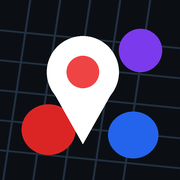
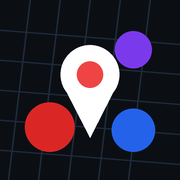
Interface maior e encaixe correto quando instalado como app
- Tudo em rem, maior por padrão, com ajuste "Tamanho do texto" (Normal/Grande/Extra)
- Barra de busca, botões e painel maiores; rótulos não cobrem o marcador
- iPhone: barra de status sólida, altura real da tela, corrige deslocamento após o teclado
- Ícones centralizados (+ ícone maskable para Android)

Claude-Session: https://claude.ai/code/session_01Km69xGFTynifKWpQ2X4WEs

Changed region(s): [[0.0, 0.0556, 1.0, 1.0]]

diff --git a/app.css b/app.css
@@ -1,130 +1,139 @@
+/* Tamanhos em rem: o ajuste "Tamanho do texto" muda o font-size do <html> e tudo cresce junto. */
 :root{
-  --bg:#0b0f14;--panel:#121a23;--panel2:#1a2430;--line:#253244;--tx:#e8eef4;--mu:#8fa0b1;--acc:#38bdf8;
+  --bg:#0b0f14;--panel:#121a23;--panel2:#1a2430;--line:#253244;--tx:#e8eef4;--mu:#9aabbc;--acc:#38bdf8;
   --s-IN:#ef4444;--s-MP:#f97316;--s-NE:#94a3b8;--s-PX:#eab308;--s-FO:#22c55e;--s-IM:#64748b;
-  --st:env(safe-area-inset-top,0px);--sb:env(safe-area-inset-bottom,0px);
+  --st:env(safe-area-inset-top,0px);--sb:env(safe-area-inset-bottom,0px);--sl:env(safe-area-inset-left,0px);--sr:env(safe-area-inset-right,0px);
+  --vh:1vh;
 }
+html{font-size:17px;-webkit-text-size-adjust:100%;text-size-adjust:100%}
+html.t2{font-size:19px}
+html.t3{font-size:21px}
 *{box-sizing:border-box;-webkit-tap-highlight-color:transparent}
-html,body{margin:0;height:100%;overflow:hidden;background:var(--bg);color:var(--tx);
-  font:15px/1.4 -apple-system,BlinkMacSystemFont,"Segoe UI",Roboto,Helvetica,Arial,sans-serif}
+html,body{margin:0;width:100%;height:100%;overflow:hidden;overscroll-behavior:none}
+body{position:fixed;inset:0;background:var(--bg);color:var(--tx);
+  font:1rem/1.4 -apple-system,BlinkMacSystemFont,"Segoe UI",Roboto,Helvetica,Arial,sans-serif;touch-action:manipulation}
 button{font:inherit;color:inherit;cursor:pointer}
 #map{position:fixed;inset:0;background:#dfe3e8}
 .leaflet-container{font:inherit}
-.leaflet-control-attribution{font-size:10px;max-width:70vw;white-space:nowrap;overflow:hidden;text-overflow:ellipsis}
+.leaflet-control-attribution{font-size:.62rem;max-width:62vw;white-space:nowrap;overflow:hidden;text-overflow:ellipsis}
+.leaflet-bottom.leaflet-left{bottom:var(--sb);left:var(--sl)}
 .leaflet-control-zoom{display:none}
 .inv{filter:invert(1) hue-rotate(180deg) brightness(.92) contrast(.88)}
 
-/* top bar */
-#top{position:fixed;left:0;right:0;top:0;padding:calc(10px + var(--st)) 10px 0;z-index:1000;pointer-events:none}
+/* barra de busca */
+#top{position:fixed;left:0;right:0;top:0;padding:calc(.6rem + var(--st)) calc(.6rem + var(--sr)) 0 calc(.6rem + var(--sl));z-index:1000;pointer-events:none}
 #top>*{pointer-events:auto}
-.sbar{display:flex;align-items:center;height:50px;background:var(--panel);border:1px solid var(--line);border-radius:16px;
-  padding:0 4px 0 12px;box-shadow:0 6px 24px rgba(0,0,0,.35)}
+.sbar{display:flex;align-items:center;height:3.4rem;background:var(--panel);border:1px solid var(--line);border-radius:1.1rem;
+  padding:0 .25rem 0 .9rem;box-shadow:0 6px 24px rgba(0,0,0,.35)}
 .sbar:focus-within{border-color:var(--acc)}
-.sbar .ic{width:20px;height:20px;flex:none;opacity:.65}
-.sbar input{flex:1;min-width:0;height:100%;background:none;border:0;outline:0;color:var(--tx);font-size:16px;padding:0 8px;-webkit-appearance:none}
-.ib{flex:none;width:40px;height:40px;border:0;background:none;border-radius:12px;display:flex;align-items:center;justify-content:center;font-size:22px}
-.ib svg{width:22px;height:22px}
+.sbar .ic{width:1.4rem;height:1.4rem;flex:none;opacity:.7}
+.sbar input{flex:1;min-width:0;height:100%;background:none;border:0;outline:0;color:var(--tx);font-size:max(16px,1.08rem);padding:0 .6rem;-webkit-appearance:none;appearance:none}
+.sbar input::placeholder{color:#7d8ea0}
+.ib{flex:none;width:2.8rem;height:2.8rem;border:0;background:none;border-radius:.8rem;display:flex;align-items:center;justify-content:center;font-size:1.6rem;line-height:1}
+.ib svg{width:1.5rem;height:1.5rem}
 .ib:active{background:var(--panel2)}
-#results{margin-top:8px;background:var(--panel);border:1px solid var(--line);border-radius:16px;max-height:calc(100vh - 140px - var(--st));
-  overflow:auto;-webkit-overflow-scrolling:touch;box-shadow:0 10px 30px rgba(0,0,0,.4);padding:4px 0}
-.rsec{color:var(--mu);font-size:11.5px;text-transform:uppercase;letter-spacing:.6px;padding:10px 14px 4px}
-.ritem{display:flex;gap:10px;align-items:center;width:100%;text-align:left;border:0;background:none;padding:9px 14px}
+#results{margin-top:.5rem;background:var(--panel);border:1px solid var(--line);border-radius:1.1rem;
+  max-height:calc(var(--vvh, 100vh) - 5.5rem - var(--st));overflow:auto;-webkit-overflow-scrolling:touch;box-shadow:0 10px 30px rgba(0,0,0,.4);padding:.25rem 0}
+.rsec{color:var(--mu);font-size:.72rem;text-transform:uppercase;letter-spacing:.6px;padding:.7rem 1rem .25rem}
+.ritem{display:flex;gap:.75rem;align-items:center;width:100%;text-align:left;border:0;background:none;padding:.7rem 1rem;min-height:3.6rem}
 .ritem:active,.ritem.on{background:var(--panel2)}
 .ritem .m{flex:1;min-width:0}
-.ritem .t{font-weight:600;white-space:nowrap;overflow:hidden;text-overflow:ellipsis}
-.ritem .s{color:var(--mu);font-size:12.5px;white-space:nowrap;overflow:hidden;text-overflow:ellipsis}
-.ritem .k{flex:none;width:28px;height:28px;border-radius:9px;display:flex;align-items:center;justify-content:center;font-size:15px;background:var(--panel2)}
-.rmsg{color:var(--mu);font-size:13px;padding:8px 14px 12px}
-.chip{flex:none;font-size:11px;font-weight:800;border-radius:999px;padding:3px 8px;color:#0b0f14;white-space:nowrap}
-.gtag{display:inline-block;white-space:nowrap;font-size:10.5px;font-weight:800;border-radius:6px;padding:1px 6px;color:#fff;vertical-align:1px}
+.ritem .t{font-weight:600;font-size:1rem;white-space:nowrap;overflow:hidden;text-overflow:ellipsis}
+.ritem .s{color:var(--mu);font-size:.84rem;white-space:nowrap;overflow:hidden;text-overflow:ellipsis}
+.ritem .k{flex:none;width:2.1rem;height:2.1rem;border-radius:.6rem;display:flex;align-items:center;justify-content:center;font-size:1.05rem;background:var(--panel2)}
+.rmsg{color:var(--mu);font-size:.9rem;padding:.6rem 1rem .9rem}
+.chip{flex:none;font-size:.75rem;font-weight:800;border-radius:999px;padding:.2rem .55rem;color:#0b0f14;white-space:nowrap}
+.gtag{display:inline-block;white-space:nowrap;font-size:.72rem;font-weight:800;border-radius:.4rem;padding:.05rem .4rem;color:#fff;vertical-align:.08em}
 
-/* gps banner */
-#gbanner{display:flex;width:100%;align-items:center;gap:10px;margin-top:8px;border:0;border-radius:14px;padding:10px 12px;text-align:left;
+/* faixa do GPS */
+#gbanner{display:flex;width:100%;align-items:center;gap:.7rem;margin-top:.5rem;border:0;border-radius:1rem;padding:.75rem .85rem;text-align:left;
   color:#0b0f14;box-shadow:0 6px 20px rgba(0,0,0,.35);background:var(--s-FO)}
 #gbanner[hidden]{display:none}
-#gbanner .ar{flex:none;width:38px;height:38px;border-radius:50%;background:rgba(0,0,0,.14);display:flex;align-items:center;justify-content:center}
-#gbanner .ar svg{width:24px;height:24px;transition:transform .4s}
+#gbanner .ar{flex:none;width:2.8rem;height:2.8rem;border-radius:50%;background:rgba(0,0,0,.14);display:flex;align-items:center;justify-content:center;font-size:1.4rem}
+#gbanner .ar svg{width:1.7rem;height:1.7rem;transition:transform .4s}
 #gbanner .m{flex:1;min-width:0}
-#gbanner .t{font-weight:800;font-size:15px;line-height:1.2}
-#gbanner .s{font-size:13px;font-weight:500;margin-top:1px}
+#gbanner .t{font-weight:800;font-size:1.12rem;line-height:1.2}
+#gbanner .s{font-size:.9rem;font-weight:600;margin-top:.1rem}
 #gbanner.pulse{animation:pulse 1s ease-in-out 3}
 @keyframes pulse{50%{transform:scale(1.03);box-shadow:0 0 0 6px rgba(239,68,68,.35)}}
 
-/* fabs */
-#fabs{position:fixed;right:12px;bottom:calc(28px + var(--sb));z-index:900;display:flex;flex-direction:column;gap:10px;transition:bottom .2s}
-.fab{width:52px;height:52px;border-radius:16px;border:1px solid var(--line);background:var(--panel);display:flex;align-items:center;justify-content:center;
+/* botão GPS */
+#fabs{position:fixed;right:calc(.8rem + var(--sr));bottom:calc(1.6rem + var(--sb));z-index:900;display:flex;flex-direction:column;gap:.6rem;transition:bottom .2s}
+.fab{width:3.7rem;height:3.7rem;border-radius:1.1rem;border:1px solid var(--line);background:var(--panel);display:flex;align-items:center;justify-content:center;
   box-shadow:0 6px 20px rgba(0,0,0,.35)}
-.fab svg{width:26px;height:26px}
+.fab svg{width:1.8rem;height:1.8rem}
 .fab.on{color:var(--acc)}
 .fab.follow{background:var(--acc);color:#04121b;border-color:var(--acc)}
 
-/* sheet */
-#sheet{position:fixed;left:0;right:0;bottom:0;z-index:950;background:var(--panel);border-top-left-radius:20px;border-top-right-radius:20px;
-  border:1px solid var(--line);box-shadow:0 -10px 30px rgba(0,0,0,.4);height:46vh;display:flex;flex-direction:column;transition:height .2s;
-  padding-bottom:var(--sb)}
-#sheet.full{height:86vh}
+/* painel inferior */
+#sheet{position:fixed;left:0;right:0;bottom:0;z-index:950;background:var(--panel);border-top-left-radius:1.3rem;border-top-right-radius:1.3rem;
+  border:1px solid var(--line);border-bottom:0;box-shadow:0 -10px 30px rgba(0,0,0,.4);height:calc(var(--sheet, 48) * var(--vh));display:flex;flex-direction:column;
+  transition:height .2s;padding:0 var(--sr) var(--sb) var(--sl)}
+#sheet.full{--sheet:88}
 #sheet[hidden]{display:none}
-#handle{border:0;background:none;padding:8px 0 4px;display:flex;justify-content:center;flex:none}
-#handle span{width:42px;height:5px;border-radius:9px;background:#3a4a5e}
-.x{position:absolute;right:10px;top:10px;width:32px;height:32px;border-radius:50%;border:0;background:var(--panel2);font-size:18px;line-height:1}
-#sbody{flex:1;overflow:auto;-webkit-overflow-scrolling:touch;padding:2px 14px 18px}
-.sh-t{font-weight:700;font-size:17px;line-height:1.25;padding-right:36px}
-.sh-s{color:var(--mu);font-size:13px;margin-top:2px}
-.stat{border-radius:14px;padding:11px 12px;margin-top:10px;color:#0b0f14}
-.stat .k{font-weight:800;font-size:16px}
-.stat .d{font-size:14px;font-weight:500;margin-top:2px}
-.radius{display:flex;align-items:center;gap:6px;margin:14px 0 6px;flex-wrap:wrap}
-.radius .l{color:var(--mu);font-size:12px;text-transform:uppercase;letter-spacing:.6px;margin-right:4px}
-.rb{border:1px solid var(--line);background:var(--panel2);border-radius:999px;padding:5px 11px;font-size:13px}
+#handle{border:0;background:none;padding:.6rem 0 .3rem;display:flex;justify-content:center;flex:none;width:100%}
+#handle span{width:2.8rem;height:.32rem;border-radius:9px;background:#3a4a5e}
+.x{position:absolute;right:.7rem;top:.7rem;width:2.3rem;height:2.3rem;border-radius:50%;border:0;background:var(--panel2);font-size:1.25rem;line-height:1}
+#sbody{flex:1;overflow:auto;-webkit-overflow-scrolling:touch;padding:.1rem 1rem 1.2rem}
+.sh-t{font-weight:700;font-size:1.25rem;line-height:1.25;padding-right:2.6rem}
+.sh-s{color:var(--mu);font-size:.88rem;margin-top:.15rem}
+.stat{border-radius:1rem;padding:.8rem .9rem;margin-top:.7rem;color:#0b0f14}
+.stat .k{font-weight:800;font-size:1.12rem}
+.stat .d{font-size:.98rem;font-weight:500;margin-top:.15rem}
+.radius{display:flex;align-items:center;gap:.4rem;margin:1rem 0 .4rem;flex-wrap:wrap}
+.radius .l{color:var(--mu);font-size:.75rem;text-transform:uppercase;letter-spacing:.6px;margin-right:.25rem;width:100%}
+.rb{border:1px solid var(--line);background:var(--panel2);border-radius:999px;padding:.4rem .85rem;font-size:.9rem;min-height:2.3rem}
 .rb.on{background:var(--acc);border-color:var(--acc);color:#04121b;font-weight:700}
-.summ{font-size:13.5px;color:#c9d4de;margin:4px 0 6px}
-.row{display:flex;align-items:center;gap:10px;padding:9px 0;border-bottom:1px solid var(--line);width:100%;border-left:0;border-right:0;border-top:0;background:none;text-align:left}
+.summ{font-size:.92rem;color:#c9d4de;margin:.3rem 0 .4rem}
+.row{display:flex;align-items:center;gap:.7rem;padding:.7rem 0;border-bottom:1px solid var(--line);width:100%;border-left:0;border-right:0;border-top:0;background:none;text-align:left;min-height:3.4rem}
 .row:last-child{border-bottom:0}
-.row .sq{width:12px;height:12px;border-radius:3px;flex:none}
+.row .sq{width:.85rem;height:.85rem;border-radius:.2rem;flex:none}
 .row .m{flex:1;min-width:0}
-.row .t{font-weight:600;font-size:14px}
-.row .s{color:var(--mu);font-size:12.5px}
-.row .r{color:#c9d4de;font-size:13px;white-space:nowrap;text-align:right}
-.row .r small{display:block;color:var(--mu);font-size:11.5px}
-.acts{display:flex;gap:8px;margin-top:14px;flex-wrap:wrap}
-.btn{flex:1;min-width:90px;display:flex;align-items:center;justify-content:center;gap:6px;text-decoration:none;border:1px solid var(--line);background:var(--panel2);
-  border-radius:12px;padding:11px 8px;font-size:14px;font-weight:600;color:var(--tx);text-align:center}
+.row .t{font-weight:600;font-size:.98rem}
+.row .s{color:var(--mu);font-size:.84rem}
+.row .r{color:#c9d4de;font-size:.92rem;white-space:nowrap;text-align:right}
+.row .r small{display:block;color:var(--mu);font-size:.78rem}
+.acts{display:flex;gap:.5rem;margin-top:1rem;flex-wrap:wrap}
+.btn{flex:1;min-width:6rem;display:flex;align-items:center;justify-content:center;gap:.4rem;text-decoration:none;border:1px solid var(--line);background:var(--panel2);
+  border-radius:.8rem;padding:.8rem .5rem;font-size:.95rem;font-weight:600;color:var(--tx);text-align:center;min-height:3rem}
 .btn.p{background:var(--acc);border-color:var(--acc);color:#04121b}
-.note{color:var(--mu);font-size:12.5px;margin-top:12px}
-.empty{color:var(--mu);font-size:13.5px;padding:10px 0}
+.note{color:var(--mu);font-size:.84rem;margin-top:.8rem}
+.empty{color:var(--mu);font-size:.92rem;padding:.6rem 0}
 
-/* panel */
+/* camadas e opções */
 #panel{position:fixed;inset:0;z-index:1100;background:rgba(0,0,0,.45);display:flex;align-items:flex-end}
 #panel[hidden]{display:none}
-.pin{width:100%;max-height:88vh;overflow:auto;background:var(--panel);border-top-left-radius:20px;border-top-right-radius:20px;padding:14px 16px calc(20px + var(--sb));position:relative}
-.ph{display:flex;align-items:center;min-height:32px}
-.sec{color:var(--mu);font-size:11.5px;text-transform:uppercase;letter-spacing:.6px;margin:16px 0 8px}
-.seg{display:flex;gap:6px}
-.seg button{flex:1;border:1px solid var(--line);background:var(--panel2);border-radius:10px;padding:8px 4px;font-size:13px}
+.pin{width:100%;max-height:calc(90 * var(--vh));overflow:auto;-webkit-overflow-scrolling:touch;background:var(--panel);border-top-left-radius:1.3rem;border-top-right-radius:1.3rem;
+  padding:1rem calc(1rem + var(--sr)) calc(1.2rem + var(--sb)) calc(1rem + var(--sl));position:relative}
+.ph{display:flex;align-items:center;min-height:2.2rem;font-size:1.1rem}
+.sec{color:var(--mu);font-size:.75rem;text-transform:uppercase;letter-spacing:.6px;margin:1.1rem 0 .5rem}
+.seg{display:flex;gap:.4rem}
+.seg button{flex:1;border:1px solid var(--line);background:var(--panel2);border-radius:.7rem;padding:.6rem .3rem;font-size:.92rem;min-height:2.8rem}
 .seg button.on{background:var(--acc);border-color:var(--acc);color:#04121b;font-weight:700}
-#legend{display:flex;flex-wrap:wrap;gap:6px}
-.lg{display:flex;align-items:center;gap:6px;border:1px solid var(--line);background:var(--panel2);border-radius:999px;padding:6px 10px;font-size:13px}
-.lg i{width:11px;height:11px;border-radius:3px;display:block}
+#legend{display:flex;flex-wrap:wrap;gap:.4rem}
+.lg{display:flex;align-items:center;gap:.4rem;border:1px solid var(--line);background:var(--panel2);border-radius:999px;padding:.45rem .75rem;font-size:.9rem}
+.lg i{width:.75rem;height:.75rem;border-radius:.2rem;display:block}
 .lg.off{opacity:.4;text-decoration:line-through}
-.tg{display:flex;gap:10px;align-items:center;padding:7px 0;font-size:14px}
-.tg input{width:20px;height:20px;accent-color:var(--acc)}
-#about p,#about li{font-size:13.5px;color:#c9d4de}
+.tg{display:flex;gap:.7rem;align-items:center;padding:.5rem 0;font-size:.95rem}
+.tg input{width:1.35rem;height:1.35rem;accent-color:var(--acc);flex:none}
+#about p,#about li{font-size:.9rem;color:#c9d4de}
 #about a{color:var(--acc)}
 
-/* map labels & markers */
+/* rótulos e marcadores no mapa */
 .alabel{pointer-events:none}
-.alabel span{display:inline-block;transform:translate(-50%,-50%);white-space:nowrap;font-size:11.5px;font-weight:700;color:#111;background:rgba(255,255,255,.88);
-  border-left:4px solid #000;border-radius:5px;padding:1px 5px 1px 4px;box-shadow:0 1px 3px rgba(0,0,0,.25);max-width:180px;overflow:hidden;text-overflow:ellipsis}
+.alabel span{display:inline-block;transform:translate(-50%,-50%);white-space:nowrap;font-size:.8rem;font-weight:700;color:#111;background:rgba(255,255,255,.9);
+  border-left:4px solid #000;border-radius:.35rem;padding:.08rem .35rem .08rem .3rem;box-shadow:0 1px 3px rgba(0,0,0,.25);max-width:12rem;overflow:hidden;text-overflow:ellipsis}
 .dark .alabel span{color:#fff;background:rgba(15,20,26,.85)}
 .me{pointer-events:none}
-.me .dot{position:absolute;left:-9px;top:-9px;width:18px;height:18px;border-radius:50%;background:#1d9bf0;border:3px solid #fff;box-shadow:0 0 0 2px rgba(29,155,240,.35),0 2px 6px rgba(0,0,0,.4)}
-.me .hd{position:absolute;left:-22px;top:-22px;width:44px;height:44px;transform-origin:50% 50%}
+.me .dot{position:absolute;left:-10px;top:-10px;width:20px;height:20px;border-radius:50%;background:#1d9bf0;border:3px solid #fff;box-shadow:0 0 0 2px rgba(29,155,240,.35),0 2px 6px rgba(0,0,0,.4)}
+.me .hd{position:absolute;left:-24px;top:-24px;width:48px;height:48px;transform-origin:50% 50%}
 .pinm{pointer-events:none}
-.pinm svg{position:absolute;left:-16px;top:-40px;width:32px;height:42px;filter:drop-shadow(0 2px 3px rgba(0,0,0,.45))}
+.pinm svg{position:absolute;left:-18px;top:-46px;width:36px;height:48px;filter:drop-shadow(0 2px 3px rgba(0,0,0,.45))}
 
-#toast{position:fixed;left:50%;bottom:calc(100px + var(--sb));transform:translateX(-50%);background:#e8eef4;color:#0b0f14;border-radius:999px;padding:9px 15px;
-  font-size:13.5px;font-weight:600;z-index:2000;opacity:0;transition:opacity .2s;pointer-events:none;max-width:90vw;text-align:center}
+#toast{position:fixed;left:50%;bottom:calc(6.5rem + var(--sb));transform:translateX(-50%);background:#e8eef4;color:#0b0f14;border-radius:999px;padding:.6rem 1rem;
+  font-size:.92rem;font-weight:600;z-index:2000;opacity:0;transition:opacity .2s;pointer-events:none;max-width:90vw;text-align:center}
 #toast.on{opacity:1}
-#boot{position:fixed;inset:0;z-index:3000;background:var(--bg);display:flex;flex-direction:column;gap:12px;align-items:center;justify-content:center;color:var(--mu)}
+#boot{position:fixed;inset:0;z-index:3000;background:var(--bg);display:flex;flex-direction:column;gap:.8rem;align-items:center;justify-content:center;color:var(--mu)}
 #boot.off{display:none}
-.spin{width:34px;height:34px;border-radius:50%;border:3px solid var(--line);border-top-color:var(--acc);animation:sp 1s linear infinite}
+.spin{width:2.2rem;height:2.2rem;border-radius:50%;border:3px solid var(--line);border-top-color:var(--acc);animation:sp 1s linear infinite}
 @keyframes sp{to{transform:rotate(360deg)}}

diff --git a/app.js b/app.js
@@ -31,6 +31,20 @@ const BASES = {
 };
 
 const $ = id => document.getElementById(id);
+/* tamanho do texto (1 normal, 2 grande, 3 extra) e altura real da tela */
+function applyTextSize(n) { const h = document.documentElement; h.classList.remove('t2', 't3'); if (n > 1) h.classList.add('t' + n); }
+try { applyTextSize(+(localStorage.getItem('rrj.tsize') || 1)); } catch (e) {}
+const remPx = () => parseFloat(getComputedStyle(document.documentElement).fontSize) || 17;
+function syncViewport() {
+  const vv = window.visualViewport, h = vv ? vv.height : window.innerHeight;
+  document.documentElement.style.setProperty('--vh', (window.innerHeight / 100) + 'px');
+  document.documentElement.style.setProperty('--vvh', h + 'px');
+  try { if (map) map.invalidateSize({pan: false}); } catch (e) { /* mapa ainda não criado */ }
+}
+syncViewport();
+window.addEventListener('resize', syncViewport);
+window.addEventListener('orientationchange', () => setTimeout(syncViewport, 300));
+if (window.visualViewport) window.visualViewport.addEventListener('resize', syncViewport);
 const esc = s => String(s).replace(/[&<>"']/g, c => ({'&': '&amp;', '<': '&lt;', '>': '&gt;', '"': '&quot;', "'": '&#39;'}[c]));
 const fmtD = d => d < 1000 ? Math.max(10, Math.round(d / 10) * 10) + ' m' : (d / 1000).toFixed(1).replace('.', ',') + ' km';
 const fmtCep = c => { const s = String(c).padStart(8, '0'); return s.slice(0, 5) + '-' + s.slice(5); };
@@ -242,12 +256,13 @@ function refreshLabels() {
   const x0 = b.getWest() * KX, x1 = b.getEast() * KX, y0 = b.getSouth() * KY, y1 = b.getNorth() * KY;
   const mpp = 156543.03 * Math.cos(-22.9 * Math.PI / 180) / Math.pow(2, z); // metros por pixel
   const vis = AR.filter(a => !hidden.has(a.gk) && a.maxx > x0 && a.minx < x1 && a.maxy > y0 && a.miny < y1)
-    .map(a => [a, Math.max(a.maxx - a.minx, a.maxy - a.miny) / mpp]).filter(([a, px]) => z >= 15 || px > 40)
+    .map(a => [a, Math.max(a.maxx - a.minx, a.maxy - a.miny) / mpp]).filter(([a, px]) => z >= 15 || px > 50)
     .sort((p, q) => q[1] - p[1]).slice(0, 140);
   const placed = [];
+  if (sel && sel.kind !== 'gps') { const q = map.latLngToContainerPoint([sel.lat, sel.lon]); placed.push([q.x - 22, q.y - 52, 44, 56]); }
   for (const [a] of vis) {
     const p = map.latLngToContainerPoint([a.llat, a.llon]);
-    const w = Math.min(180, a.name.length * 6.6 + 14), h = 18, r = [p.x - w / 2, p.y - h / 2, w, h];
+    const f = remPx() / 17, w = Math.min(12 * remPx(), a.name.length * 7.6 * f + 18), h = 22 * f, r = [p.x - w / 2, p.y - h / 2, w, h];
     if (placed.some(q => r[0] < q[0] + q[2] && r[0] + r[2] > q[0] && r[1] < q[1] + q[3] && r[1] + r[3] > q[1])) continue;
     placed.push(r);
     L.marker([a.llat, a.llon], {interactive: false, keyboard: false, icon: L.divIcon({className: 'alabel', iconSize: null,
@@ -274,6 +289,7 @@ function selectPoint(lat, lon, o) {
   }
   drawSel();
   renderSheet();
+  refreshLabels();
   if (o.fly) {
     const z = Math.max(map.getZoom(), radius > 1500 ? 14 : 15);
     flyToVisible(lat, lon, Math.min(16, z));
@@ -327,7 +343,7 @@ function renderSheet() {
     <div class="note">Mapa colaborativo, não oficial. As divisas são aproximadas e mudam; na dúvida, confirme com quem conhece o local.</div>`;
   openSheet();
 }
-function openSheet() { const sh = $('sheet'); sh.hidden = false; $('fabs').style.bottom = `calc(${sh.classList.contains('full') ? 86 : 46}vh + 14px)`; }
+function openSheet() { const sh = $('sheet'); sh.hidden = false; $('fabs').style.bottom = `calc(${sh.classList.contains('full') ? 88 : 48} * var(--vh) + .8rem)`; }
 function closeSheet() { $('sheet').hidden = true; $('sheet').classList.remove('full'); $('fabs').style.bottom = ''; sel = null; selLayer.clearLayers(); }
 $('sclose').onclick = closeSheet;
 $('handle').onclick = () => { $('sheet').classList.toggle('full'); openSheet(); };
@@ -607,12 +623,20 @@ function renderBanner(k, as, x, y, acc) {
 }
 $('gbanner').onclick = () => { if (gps.pos) { selectPoint(gps.pos.lat, gps.pos.lon, {kind: 'gps', acc: gps.pos.acc}); } };
 $('q').addEventListener('focus', () => { $('gbanner').hidden = true; });
-$('q').addEventListener('blur', () => setTimeout(() => { if (gps.on && $('results').hidden) $('gbanner').hidden = false; }, 250));
+$('q').addEventListener('blur', () => setTimeout(() => { window.scrollTo(0, 0); document.body.scrollTop = 0; syncViewport(); if (gps.on && $('results').hidden) $('gbanner').hidden = false; }, 120));
 
 /* ===================== painel de opções ===================== */
 function buildPanel() {
   $('bases').innerHTML = Object.entries(BASES).map(([k, b]) => `<button data-k="${k}" class="${k === baseKey ? 'on' : ''}">${b.n}</button>`).join('');
   $('bases').onclick = e => { const b = e.target.closest('button'); if (b) setBase(b.dataset.k); };
+  const ts = store.get('tsize', 1);
+  $('tsize').innerHTML = ['Normal', 'Grande', 'Extra'].map((n, i) => `<button data-t="${i + 1}" class="${ts === i + 1 ? 'on' : ''}">${n}</button>`).join('');
+  $('tsize').onclick = e => {
+    const b = e.target.closest('button'); if (!b) return; const n = +b.dataset.t;
+    store.set('tsize', n); applyTextSize(n);
+    $('tsize').querySelectorAll('button').forEach(x => x.classList.toggle('on', x === b));
+    refreshLabels(); if (!$('sheet').hidden) openSheet();
+  };
   const cnt = {}; for (const a of AR) cnt[a.gk] = (cnt[a.gk] || 0) + 1;
   $('legend').innerHTML = META.groups.map(g => `<button class="lg${hidden.has(g) ? ' off' : ''}" data-g="${g}"><i style="background:${GDEF[g].c}"></i>${esc(GDEF[g].n)} <span style="color:var(--mu)">${cnt[g] || 0}</span></button>`).join('');
   $('legend').onclick = e => {

diff --git a/index.html b/index.html
@@ -6,7 +6,7 @@
 <meta name="theme-color" content="#0b0f14">
 <meta name="apple-mobile-web-app-capable" content="yes">
 <meta name="mobile-web-app-capable" content="yes">
-<meta name="apple-mobile-web-app-status-bar-style" content="black-translucent">
+<meta name="apple-mobile-web-app-status-bar-style" content="black">
 <meta name="apple-mobile-web-app-title" content="Risco RJ">
 <meta name="description" content="Mapa de áreas de risco do RJ com busca por rua, CEP e endereço, GPS e alertas.">
 <title>Mapa de Risco RJ</title>
@@ -14,7 +14,7 @@
 <link rel="icon" href="icons/icon-192.png">
 <link rel="apple-touch-icon" href="icons/apple-touch-icon.png">
 <link rel="stylesheet" href="vendor/leaflet.css">
-<link rel="stylesheet" href="app.css?v=4">
+<link rel="stylesheet" href="app.css?v=5">
 </head>
 <body>
 <div id="map"></div>
@@ -45,6 +45,8 @@
     <div class="ph"><b>Camadas e opções</b><button class="x" id="pclose" aria-label="Fechar">×</button></div>
     <div class="sec">Mapa base</div>
     <div class="seg" id="bases"></div>
+    <div class="sec">Tamanho do texto</div>
+    <div class="seg" id="tsize"></div>
     <div class="sec">Áreas (toque para mostrar/ocultar)</div>
     <div id="legend"></div>
     <div class="sec">Navegação</div>
@@ -60,6 +62,6 @@
 <div id="boot"><div class="spin"></div><div>Carregando áreas…</div></div>
 
 <script src="vendor/leaflet.js"></script>
-<script src="app.js?v=4"></script>
+<script src="app.js?v=5"></script>
 </body>
 </html>

diff --git a/sw.js b/sw.js
@@ -1,7 +1,7 @@
 /* Service worker: app e dados funcionam offline; mapa base fica em cache conforme você navega. */
-const V = 'v2';
+const V = 'v3';
 const SHELL = ['./', 'index.html', 'app.css', 'app.js', 'manifest.webmanifest', 'vendor/leaflet.js', 'vendor/leaflet.css',
-  'icons/icon-192.png', 'icons/apple-touch-icon.png', 'data/areas.json', 'data/ruas.json'];
+  'icons/icon-192.png', 'icons/apple-touch-icon.png', 'icons/maskable-512.png', 'data/areas.json', 'data/ruas.json'];
 self.addEventListener('install', e => {
   e.waitUntil(caches.open('shell-' + V).then(c => c.addAll(SHELL)).then(() => self.skipWaiting()));
 });
